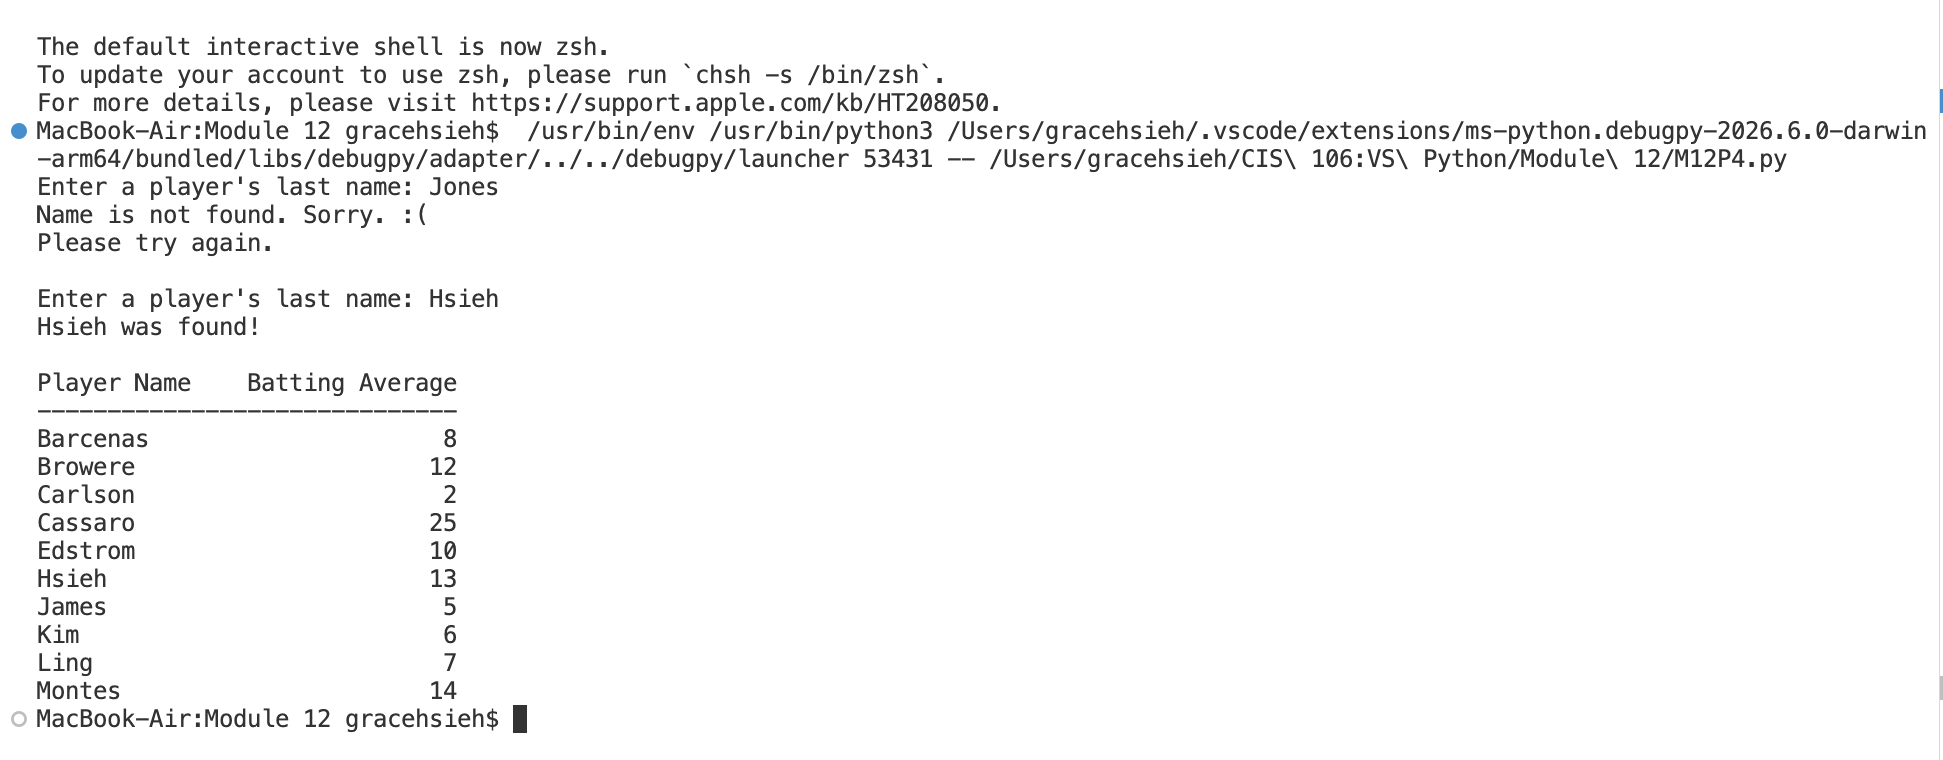
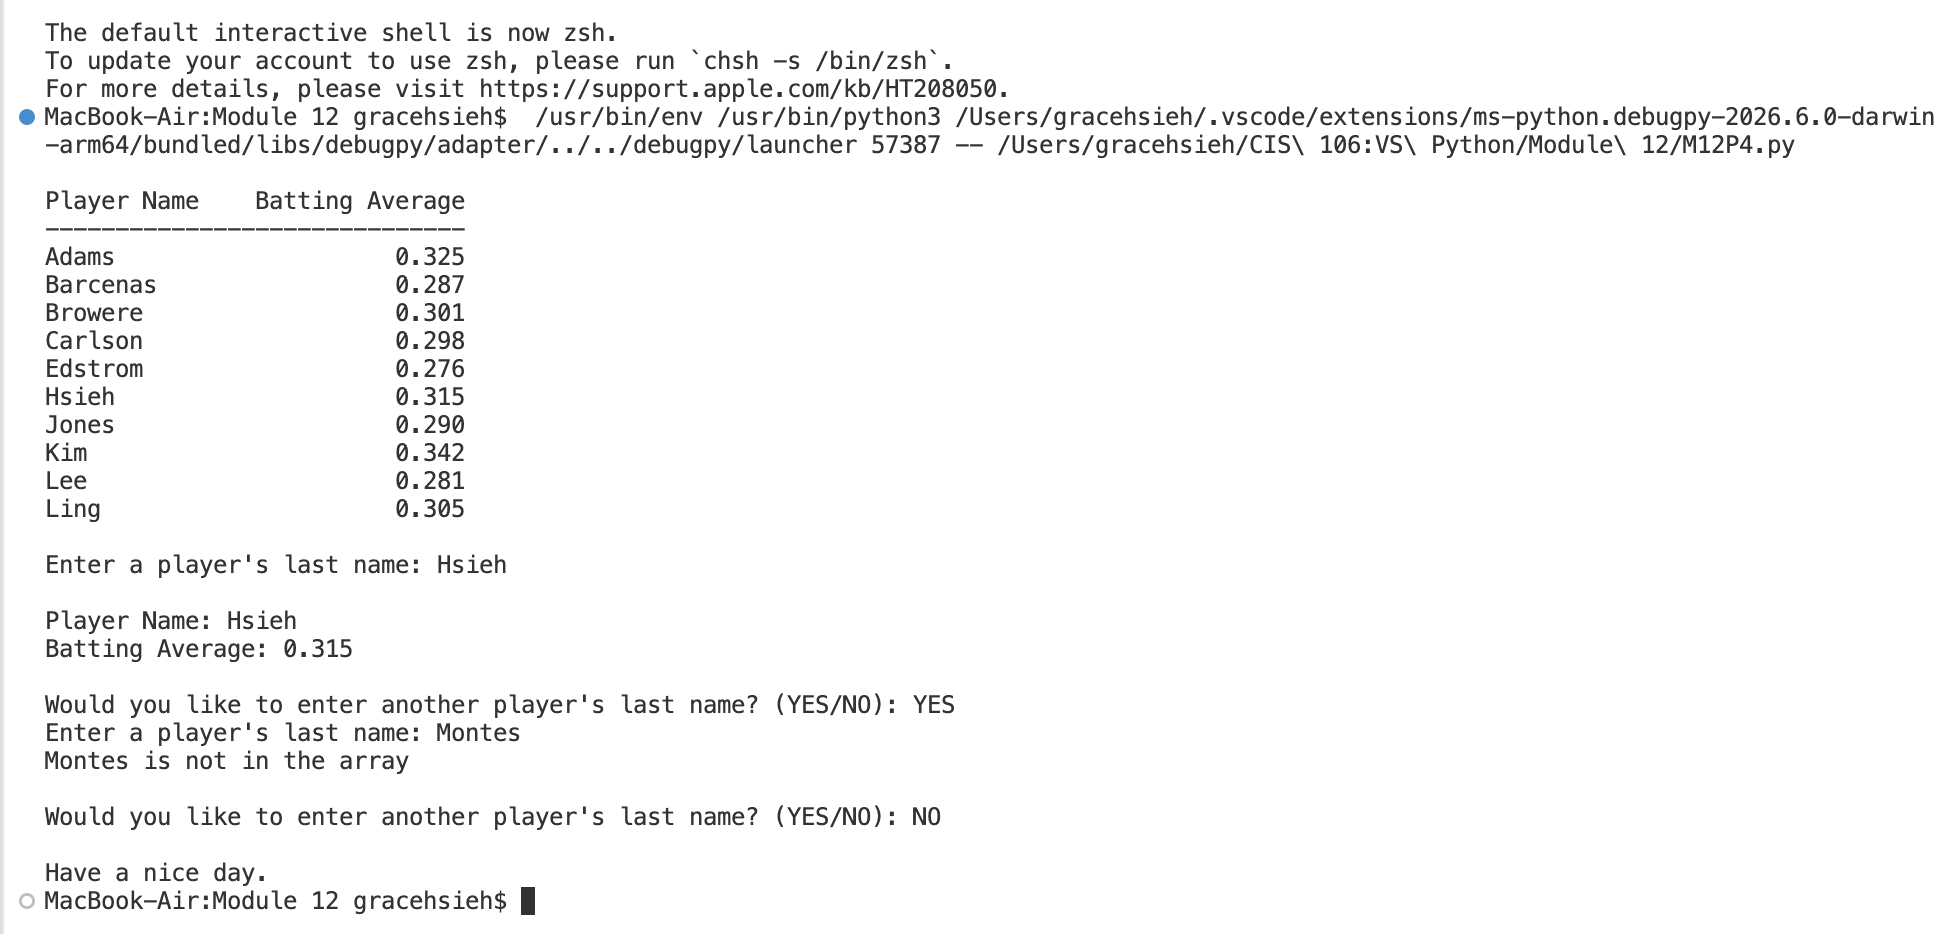
Add files via upload

Changed region(s): [[0.0, 0.0303, 1.0, 0.9987], [0.9882, 0.8776, 1.0, 0.9382]]

diff --git a/M12P5.py b/M12P5.py
@@ -1,42 +1,70 @@
-def displayPlayerNames(playerName):
+from pathlib import Path
+
+def displayPlayers(playerName, battingAverage):
     print()
-    print(f"{'Player Name':<15}")
-    print("-" * 35)
+    print(f"{'Player Name':<15}{'Batting Average':>15}")
+    print("-" * 30)
 
-    for i in range(10):
-        print(f"{playerName[i]:<15}")
+    for i in range(len(playerName)):
+        print(f"{playerName[i]:<15}{battingAverage[i]:>15.3f}")
 
-def displayBattingAverage(battingAverage):
+
+def searchName(searchPlayer, playerName):
+
+    for i in range(len(playerName)):
+        if playerName[i].lower() == searchPlayer.lower():
+            return i
+
+    return -1
+
+
+# Read names
+M12P4_names = Path("/Users/gracehsieh/CIS 106:VS Python/Module 12/M12P4_lastnames")
+
+# Read batting averages
+M12P4_avg = Path("/Users/gracehsieh/CIS 106:VS Python/Module 12/M12P4_battingAvg")
+
+playerName = []
+battingAverage = []
+
+# Read names
+if M12P4_names.exists():
+    with open(M12P4_names, "r") as infile:
+        for line in infile:
+            playerName.append(line.strip())
+
+# Read batting averages
+if M12P4_avg.exists():
+    with open(M12P4_avg, "r") as infile:
+        for line in infile:
+            battingAverage.append(float(line.strip()))
+
+# Display data
+displayPlayers(playerName, battingAverage)
+
+# First search
+searchLastName = input("\nEnter a player's last name: ")
+
+i = searchName(searchLastName, playerName)
+
+if i == -1:
+    print(searchLastName, "is not in the array")
+else:
     print()
-    print(f"{'Batting Average':>20}")
-    print("-" * 35)
+    print(f"Player Name: {playerName[i]}")
+    print(f"Batting Average: {battingAverage[i]:.3f}")
 
-    for i in range(10):
-        print(f"{battingAverage[i]:>20}")
-
-def displayLastName(lastName):
-    print()
-    print(f"{'Last Name':<15}")
-    print("-" * 35)
-
-    for i in range(10):
-        print(f"{lastName[i]:<15}")
-
-playerName = ["Barcenas", "Browere", "Carlson", "Cassaro", "Edstrom", "Hsieh", "James", "Kim", "Ling", "Montes"]
-
-# Example last names list
-lastName = playerName
-
+# While loop searches
 found = False
 
 while not found:
-    searchName = input("Enter a player's last name: ")
+    searchLastName = input("Enter a player's last name: ")
 
-    if searchName in playerName:
-        print(f"{searchName} was found!")
+    i = searchName(searchLastName, playerName)
+
+    if i != -1:
+        print(f"{playerName[i]} was found with a batting average of {battingAverage[i]:.3f}")
         found = True
     else:
-        print("Name is not found. Sorry. :( ")
+        print("Name is not found. Sorry. :(")
         print("Please try again.\n")
-
-displayLastName(lastName)

diff --git a/M12P4.py b/M12P4.py
@@ -1,26 +1,77 @@
+from pathlib import Path
+
 def displayPlayers(playerName, battingAverage):
     print()
     print(f"{'Player Name':<15}{'Batting Average':>15}")
     print("-" * 30)
 
-    for i in range(10):
-        print(f"{playerName[i]:<15}{battingAverage[i]:>15}")
+    for i in range(len(playerName)):
+        print(f"{playerName[i]:<15}{battingAverage[i]:>15.3f}")
 
-playerName = ["Barcenas", "Browere", "Carlson", "Cassaro", "Edstrom", "Hsieh", "James", "Kim",
-              "Ling", "Montes"]
 
-battingAverage = [8, 12, 2, 25, 10, 13, 5, 6, 7, 14]
+def searchName(searchPlayer, playerName):
 
-found = False
+    for i in range(len(playerName)):
+        if playerName[i].lower() == searchPlayer.lower():
+            return i
 
-while not found:
-    searchName = input("Enter a player's last name: ")
+    return -1
 
-    if searchName in playerName:
-        print(f"{searchName} was found!")
-        found = True
-    else:
-        print("Name is not found. Sorry. :( ")
-        print("Please try again.\n")
 
+# Read names
+M12P4_names = Path("/Users/gracehsieh/CIS 106:VS Python/Module 12/M12P4_lastnames")
+
+# Read batting averages
+M12P4_avg = Path("/Users/gracehsieh/CIS 106:VS Python/Module 12/M12P4_battingAvg")
+
+playerName = []
+battingAverage = []
+
+# Read names
+if M12P4_names.exists():
+    with open(M12P4_names, "r") as infile:
+        for line in infile:
+            playerName.append(line.strip())
+
+# Read batting averages
+if M12P4_avg.exists():
+    with open(M12P4_avg, "r") as infile:
+        for line in infile:
+            battingAverage.append(float(line.strip()))
+
+# Display data
 displayPlayers(playerName, battingAverage)
+
+# First search
+searchLastName = input("\nEnter a player's last name: ")
+
+i = searchName(searchLastName, playerName)
+
+if i == -1:
+    print(searchLastName, "is not in the array")
+else:
+    print()
+    print(f"Player Name: {playerName[i]}")
+    print(f"Batting Average: {battingAverage[i]:.3f}")
+
+# While loop searches
+response = input("\nWould you like to enter another player's last name? (YES/NO): ")
+
+while response.upper() == "YES":
+
+    searchLastName = input("Enter a player's last name: ")
+
+    i = searchName(searchLastName, playerName)
+
+    if i == -1:
+        print(searchLastName, "is not in the array")
+    else:
+        print()
+        print(f"Player Name: {playerName[i]}")
+        print(f"Batting Average: {battingAverage[i]:.3f}")
+
+    response = input(
+        "\nWould you like to enter another player's last name? (YES/NO): "
+    )
+
+print("\nHave a nice day.")

diff --git a/M12P3.py b/M12P3.py
@@ -10,7 +10,6 @@ def displayExam(lastName, ExamScore):
 def rdisplay(lastName, ExamScore):
     print()
     print("Sorted by Highest Score")
-    print()
     print(f"{'Last Name':<15}{'Exam Score':>12}")
     print("-" * 27)
 
@@ -20,6 +19,7 @@ def rdisplay(lastName, ExamScore):
 def hilow(lastName, ExamScore):
 
     l = len(lastName)
+
     for y in range(l - 1):
 
         lowExamScore = 999
@@ -36,12 +36,13 @@ def hilow(lastName, ExamScore):
         # Swap names
         lastName[y], lastName[lowIndex] = lastName[lowIndex], lastName[y]
 
-
-lastName = ["Adams", "Barcenas", "Browere", "Carlson","Edstrom", "Hsieh", "Jones", "Kim",
+lastName = ["Adams", "Barcenas", "Browere", "Carlson",
+            "Edstrom", "Hsieh", "Jones", "Kim",
             "Lee", "Ling"]
 
 ExamScore = [100, 89, 75, 90, 79, 77, 88, 99, 85, 95]
 
 hilow(lastName, ExamScore)
+
 displayExam(lastName, ExamScore)
 rdisplay(lastName, ExamScore)
